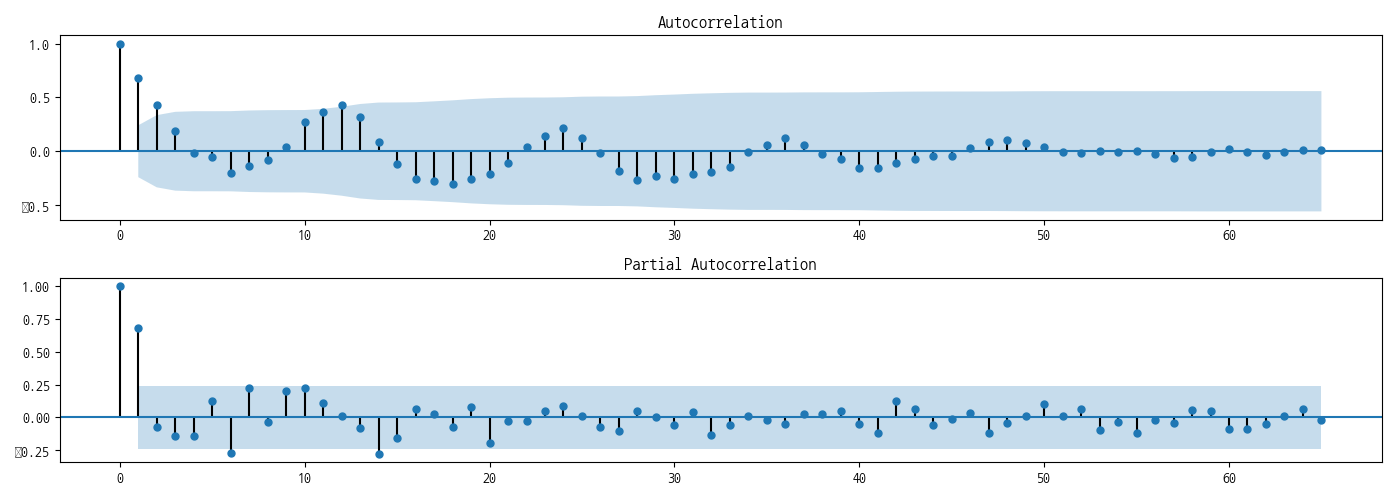
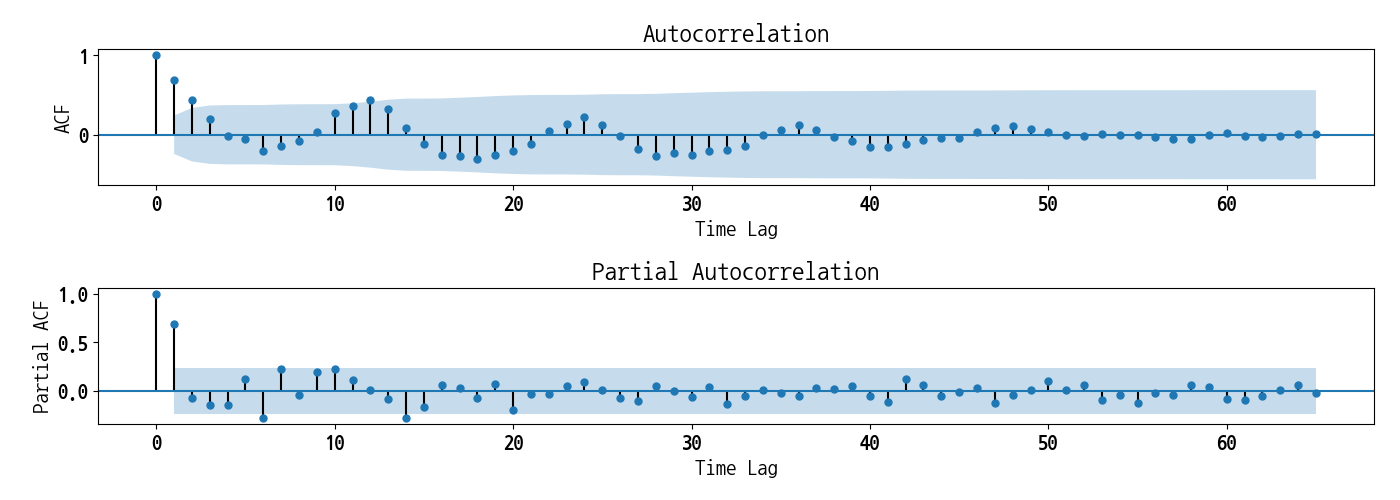
add Correlation.py in the analysis directory

diff --git a/analysis/correlation.py b/analysis/correlation.py
@@ -1,0 +1,70 @@
+import math
+
+# input data
+# used_medicine_quantity = [660435657, 767063356, 867632500, 818260329, 647045938, 468268392, 356511105, 382248686,
+#                           583195899, 686006286, 733973048, 907851681]
+# number_of_patients = [3792925, 3949827, 4512010, 4177475, 3433044, 2585334, 2139986, 2365389, 3570879, 3754740, 3788978,
+#                       4274347]
+
+
+def data_rage(x):
+    return max(x) - min(x)
+
+
+def quantile(x, p):
+    p_index = int(p * len(x))
+    return sorted(x)[p_index]
+
+
+def interquantile(x):
+    return quantile(x, 0.75) - quantile(x, 0.25)
+
+
+def mean(x):
+    return sum(x) / len(x)
+
+
+def dot(v, w):
+    return sum(v_i * w_i for v_i, w_i in zip(v, w))
+
+
+def sum_of_squares(v):
+    return dot(v, v)
+
+
+def de_mean(x):
+    x_bar = mean(x)
+    return [x_i - x_bar for x_i in x]
+
+
+def variance(x):
+    n = len(x)
+    deviations = de_mean(x)
+    return sum_of_squares(deviations) / (n - 1)
+
+
+def standard_deviation(x):
+    return math.sqrt(variance(x))
+
+
+def covariance(x, y):
+    n = len(x)
+    return dot(de_mean(x), de_mean(y)) / (n - 1)
+
+
+def correlation(x, y):
+    stdev_x = standard_deviation(x)
+    stdev_y = standard_deviation(y)
+
+    if stdev_x > 0 and stdev_y > 0:
+        return covariance(x, y) / stdev_x / stdev_y
+    else:
+        return 0
+
+#
+# correlation_coefficient = correlation(used_medicine_quantity, number_of_patients)
+# rounded_coefficient = round(correlation_coefficient, 2)
+#
+#
+# print("Correlation Analysis Between Used Medicine Quantities And Number Of Patients")
+# print("coefficient: ", rounded_coefficient)

diff --git a/analysis/util.py b/analysis/util.py
@@ -11,11 +11,15 @@ from statsmodels.tsa.stattools import adfuller
 # Korean Character Encoding For matplotlib
 font_name = font_manager.FontProperties(fname="c:/Windows/Fonts/나눔고딕코딩.ttf").get_name()
 rc('font', family=font_name)
+rc('font', weight="bold")
+rc('font', size=15)
+
 print(font_name)
 
 # Matplotlib plot Configuration
 plt.rcParams['figure.figsize'] = (14, 5)
 plt.rcParams['figure.dpi'] = 100
+
 
 cityDic = {'서울특별시': "Seoul", "광주광역시": "GwangJu", "대구광역시": "DaeGu", "대전광역시": "DaeJeon", "부산광역시": "Busan",
            "울산광역시": "Ulsan", "인천광역시": "Incheon", "청주시": "CheongJu"}
@@ -25,8 +29,12 @@ def acf_pacf(dataset):
     # ts_log = np.log(dataset)
     ts_log = dataset
     ax1 = plt.subplot(211)
+    ax1.set_xlabel("Time Lag")
+    ax1.set_ylabel("ACF")
     plot_acf(ts_log, ax=ax1)
     ax2 = plt.subplot(212)
+    ax2.set_xlabel("Time Lag")
+    ax2.set_ylabel("Partial ACF")
     plot_pacf(ts_log, ax=ax2)
     plt.tight_layout()
     plt.savefig("..\graph\ACF_PACF.png", format='png')

diff --git a/analysis/arima.py b/analysis/arima.py
@@ -32,6 +32,7 @@ for city in cities:
     data = pd.Series(resultset['patients'].values, index=resultset['diagym'])
     print(data.head())
     print("=" * 40)
+    # util.test_stationartiy(data)
     util.train_test(data, city, True)
 
 #
